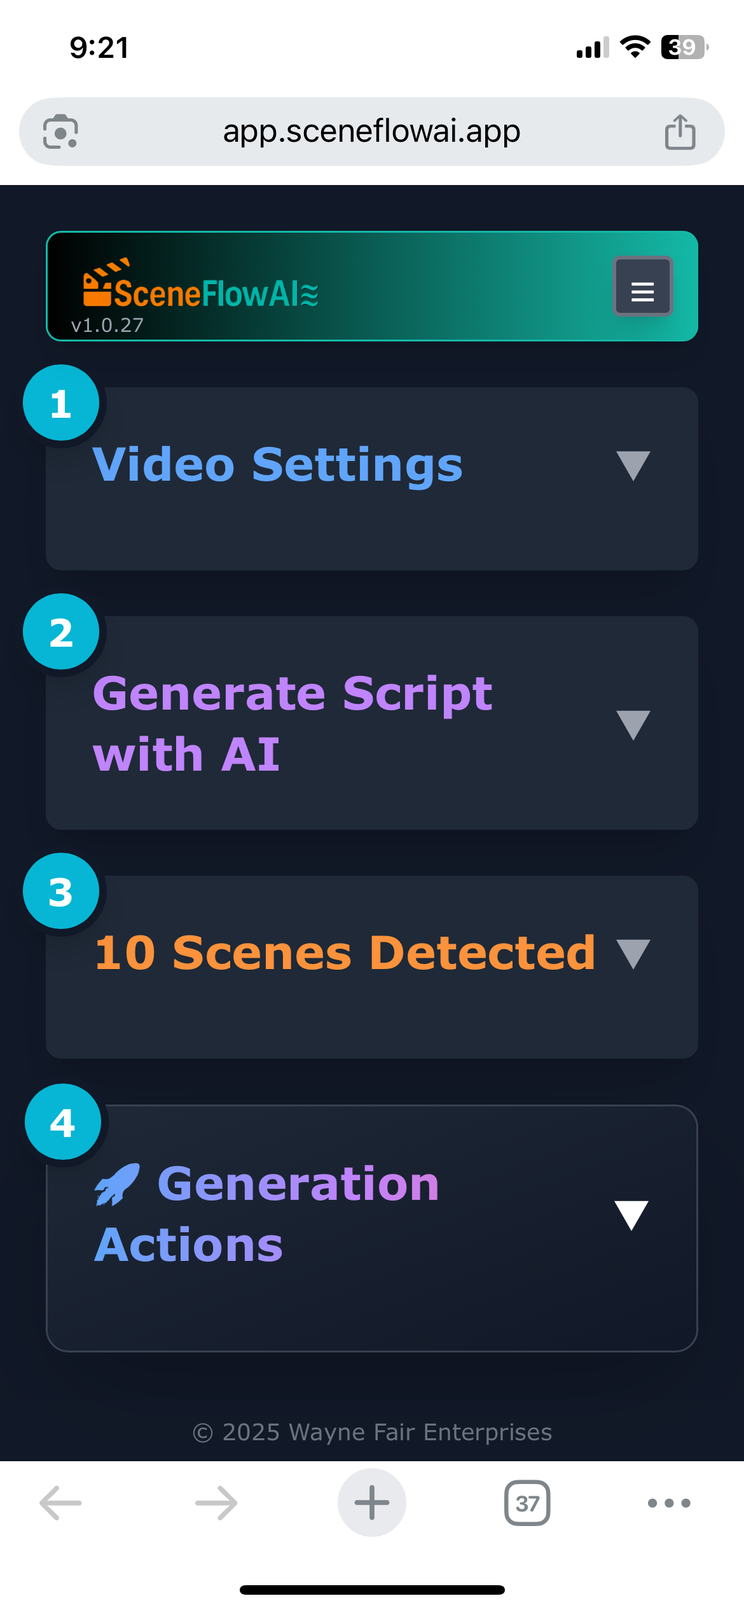
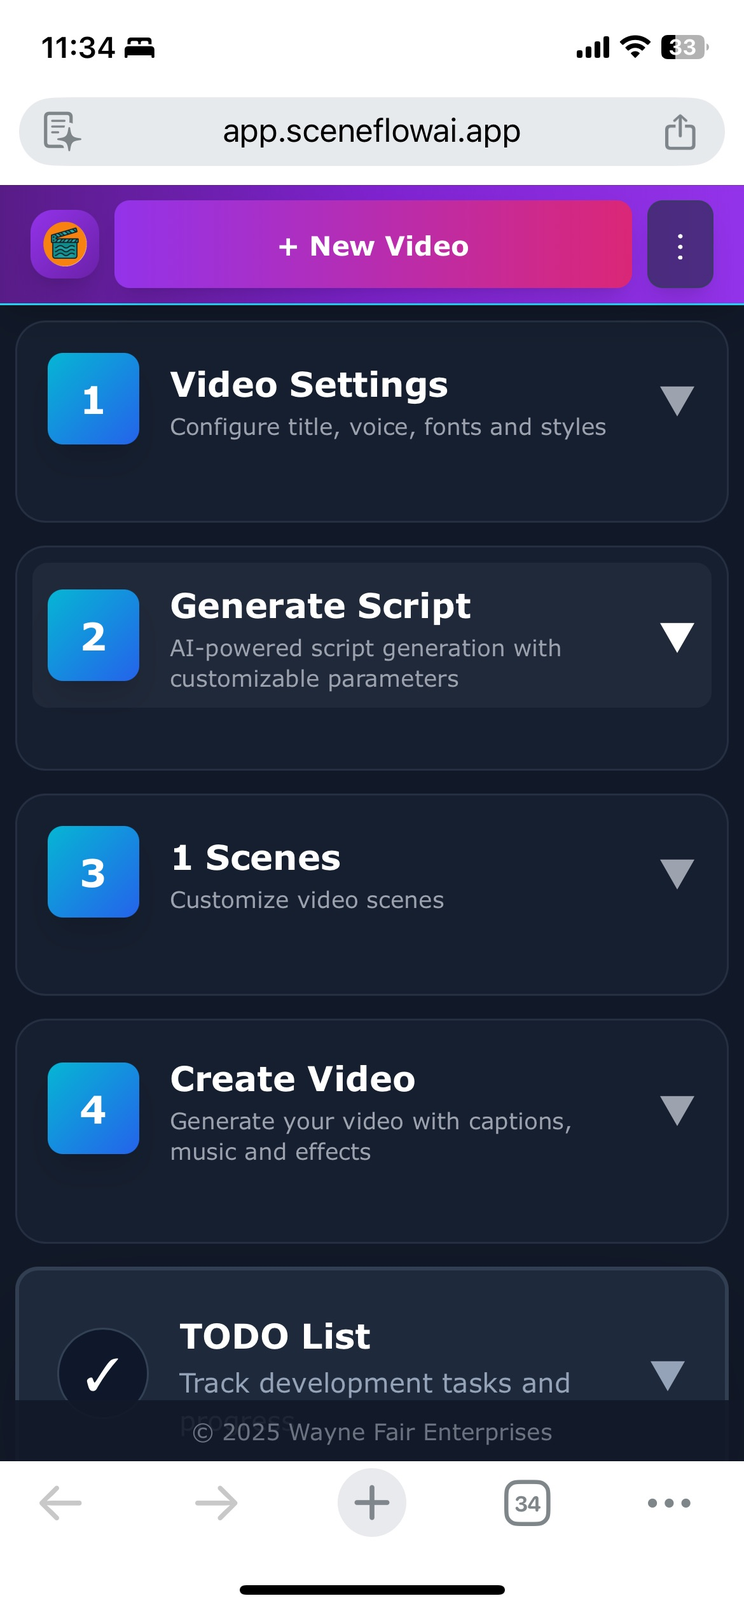
Update landing page with creation paths and new branding
- Replace pricing section with 4 creation path cards (AutoMagic, AI Script, Story Teller, SlideWizard)
- Update logo to use hosted image from app.sceneflowai.app
- Add SceneFlowAI text branding next to logo in header and footer
- Update mobile app screenshot

🤖 Generated with [Claude Code](https://claude.com/claude-code)

diff --git a/index.html b/index.html
@@ -49,8 +49,9 @@
     <nav class="fixed w-full bg-slate-900/80 backdrop-blur-md z-50 border-b border-purple-500/20">
         <div class="max-w-7xl mx-auto px-4 sm:px-6 lg:px-8">
             <div class="flex justify-between items-center h-16">
-                <a href="index.html" class="flex items-center">
-                    <img src="logo.png" alt="SceneFlow" class="h-8 md:h-9">
+                <a href="index.html" class="flex items-center gap-2">
+                    <img src="https://app.sceneflowai.app/extracted_logo_no_background.png" alt="SceneFlow" class="h-8 md:h-9">
+                    <span class="text-xl font-bold"><span class="text-amber-500">Scene</span><span class="text-scene-cyan">FlowAI</span></span>
                 </a>
                 <div class="hidden md:flex space-x-8">
                     <a href="#features" class="hover:text-scene-cyan transition">Features</a>
@@ -302,203 +303,203 @@
         </div>
     </section>
 
-    <!-- Pricing Section -->
+    <!-- Creation Modes Section -->
     <section id="pricing" class="py-20 px-4 bg-slate-900/50">
         <div class="max-w-7xl mx-auto">
             <div class="text-center mb-16">
-                <h2 class="text-4xl md:text-5xl font-bold mb-4">Choose Your Plan</h2>
-                <p class="text-xl text-gray-400">Start free, scale as you grow</p>
+                <h2 class="text-4xl md:text-5xl font-bold mb-4">Choose Your Creation Path</h2>
+                <p class="text-xl text-gray-400">Select how you'd like to create your video</p>
             </div>
 
-            <div class="grid md:grid-cols-3 gap-8 max-w-6xl mx-auto">
-                <!-- Starter Plan -->
-                <div class="bg-gradient-to-br from-slate-800 to-slate-900 p-8 rounded-2xl border border-purple-500/20 hover:border-scene-cyan/50 transition transform hover:scale-105">
-                    <div class="mb-8">
-                        <h3 class="text-2xl font-bold mb-2">Starter</h3>
-                        <p class="text-gray-400 mb-6">Perfect for trying out SceneFlow</p>
-                        <div class="flex items-baseline">
-                            <span class="text-5xl font-bold">$0</span>
-                            <span class="text-gray-400 ml-2">/month</span>
-                        </div>
-                    </div>
-                    <ul class="space-y-4 mb-8">
-                        <li class="flex items-start">
-                            <svg class="w-6 h-6 text-green-500 mr-3 flex-shrink-0" fill="none" stroke="currentColor" viewBox="0 0 24 24">
-                                <path stroke-linecap="round" stroke-linejoin="round" stroke-width="2" d="M5 13l4 4L19 7"></path>
-                            </svg>
-                            <span class="text-gray-300">5 videos per month</span>
-                        </li>
-                        <li class="flex items-start">
-                            <svg class="w-6 h-6 text-green-500 mr-3 flex-shrink-0" fill="none" stroke="currentColor" viewBox="0 0 24 24">
-                                <path stroke-linecap="round" stroke-linejoin="round" stroke-width="2" d="M5 13l4 4L19 7"></path>
-                            </svg>
-                            <span class="text-gray-300">Up to 3 minutes per video</span>
-                        </li>
-                        <li class="flex items-start">
-                            <svg class="w-6 h-6 text-green-500 mr-3 flex-shrink-0" fill="none" stroke="currentColor" viewBox="0 0 24 24">
-                                <path stroke-linecap="round" stroke-linejoin="round" stroke-width="2" d="M5 13l4 4L19 7"></path>
-                            </svg>
-                            <span class="text-gray-300">6 AI voices</span>
-                        </li>
-                        <li class="flex items-start">
-                            <svg class="w-6 h-6 text-green-500 mr-3 flex-shrink-0" fill="none" stroke="currentColor" viewBox="0 0 24 24">
-                                <path stroke-linecap="round" stroke-linejoin="round" stroke-width="2" d="M5 13l4 4L19 7"></path>
-                            </svg>
-                            <span class="text-gray-300">Basic captions</span>
-                        </li>
-                        <li class="flex items-start">
-                            <svg class="w-6 h-6 text-green-500 mr-3 flex-shrink-0" fill="none" stroke="currentColor" viewBox="0 0 24 24">
-                                <path stroke-linecap="round" stroke-linejoin="round" stroke-width="2" d="M5 13l4 4L19 7"></path>
-                            </svg>
-                            <span class="text-gray-300">720p export</span>
-                        </li>
-                    </ul>
-                    <a href="https://app.sceneflowai.app/" class="w-full border-2 border-purple-500/50 py-3 rounded-xl font-bold hover:bg-purple-500/10 transition inline-block text-center">
-                        Get Started Free
-                    </a>
-                </div>
+            <div class="grid md:grid-cols-2 lg:grid-cols-4 gap-6 max-w-7xl mx-auto">
+                <!-- AutoMagic Mode -->
+                <div class="bg-gradient-to-br from-amber-500/30 to-orange-600/30 p-[2px] rounded-2xl hover:scale-105 transition-transform duration-300">
+                    <div class="bg-slate-900 p-6 rounded-2xl h-full flex flex-col">
+                        <div class="text-4xl mb-3">✨</div>
+                        <h3 class="text-xl font-bold mb-1 text-amber-400">AutoMagic</h3>
+                        <p class="text-gray-400 mb-4 text-sm italic">"AI creates everything for you"</p>
 
-                <!-- Pro Plan (Featured) -->
-                <div class="bg-gradient-to-br from-scene-cyan via-scene-purple to-scene-pink p-[2px] rounded-2xl transform scale-105 relative overflow-hidden">
-                    <!-- Coming Soon Ribbon -->
-                    <div class="absolute top-8 -right-12 bg-red-600 text-white font-bold py-2 px-16 transform rotate-45 shadow-lg z-10" style="width: 200px; text-align: center;">
-                        COMING SOON!
-                    </div>
-                    <div class="bg-slate-900 p-8 rounded-2xl h-full">
-                        <div class="inline-block px-3 py-1 bg-gradient-to-r from-scene-cyan to-scene-purple rounded-full text-xs font-bold mb-4">
-                            MOST POPULAR
-                        </div>
-                        <div class="mb-8">
-                            <h3 class="text-2xl font-bold mb-2">Pro</h3>
-                            <p class="text-gray-400 mb-6">For serious content creators</p>
-                            <div class="flex items-baseline">
-                                <span class="text-5xl font-bold">$29</span>
-                                <span class="text-gray-400 ml-2">/month</span>
-                            </div>
-                        </div>
-                        <ul class="space-y-4 mb-8">
+                        <ul class="space-y-2 mb-6 flex-grow text-sm">
                             <li class="flex items-start">
-                                <svg class="w-6 h-6 text-green-500 mr-3 flex-shrink-0" fill="none" stroke="currentColor" viewBox="0 0 24 24">
+                                <svg class="w-4 h-4 text-amber-400 mr-2 flex-shrink-0 mt-0.5" fill="none" stroke="currentColor" viewBox="0 0 24 24">
                                     <path stroke-linecap="round" stroke-linejoin="round" stroke-width="2" d="M5 13l4 4L19 7"></path>
                                 </svg>
-                                <span class="text-gray-300"><strong>50 videos per month</strong></span>
+                                <span class="text-gray-300">Enter a topic, AI writes the script</span>
                             </li>
                             <li class="flex items-start">
-                                <svg class="w-6 h-6 text-green-500 mr-3 flex-shrink-0" fill="none" stroke="currentColor" viewBox="0 0 24 24">
+                                <svg class="w-4 h-4 text-amber-400 mr-2 flex-shrink-0 mt-0.5" fill="none" stroke="currentColor" viewBox="0 0 24 24">
                                     <path stroke-linecap="round" stroke-linejoin="round" stroke-width="2" d="M5 13l4 4L19 7"></path>
                                 </svg>
-                                <span class="text-gray-300"><strong>Up to 10 minutes per video</strong></span>
+                                <span class="text-gray-300">AI generates photorealistic images</span>
                             </li>
                             <li class="flex items-start">
-                                <svg class="w-6 h-6 text-green-500 mr-3 flex-shrink-0" fill="none" stroke="currentColor" viewBox="0 0 24 24">
+                                <svg class="w-4 h-4 text-amber-400 mr-2 flex-shrink-0 mt-0.5" fill="none" stroke="currentColor" viewBox="0 0 24 24">
                                     <path stroke-linecap="round" stroke-linejoin="round" stroke-width="2" d="M5 13l4 4L19 7"></path>
                                 </svg>
-                                <span class="text-gray-300">All AI voices</span>
+                                <span class="text-gray-300">Professional AI voiceover (multiple voices)</span>
                             </li>
                             <li class="flex items-start">
-                                <svg class="w-6 h-6 text-green-500 mr-3 flex-shrink-0" fill="none" stroke="currentColor" viewBox="0 0 24 24">
+                                <svg class="w-4 h-4 text-amber-400 mr-2 flex-shrink-0 mt-0.5" fill="none" stroke="currentColor" viewBox="0 0 24 24">
                                     <path stroke-linecap="round" stroke-linejoin="round" stroke-width="2" d="M5 13l4 4L19 7"></path>
                                 </svg>
-                                <span class="text-gray-300">Advanced captions & styles</span>
+                                <span class="text-gray-300">Both 16:9 and 9:16 formats</span>
                             </li>
                             <li class="flex items-start">
-                                <svg class="w-6 h-6 text-green-500 mr-3 flex-shrink-0" fill="none" stroke="currentColor" viewBox="0 0 24 24">
+                                <svg class="w-4 h-4 text-amber-400 mr-2 flex-shrink-0 mt-0.5" fill="none" stroke="currentColor" viewBox="0 0 24 24">
                                     <path stroke-linecap="round" stroke-linejoin="round" stroke-width="2" d="M5 13l4 4L19 7"></path>
                                 </svg>
-                                <span class="text-gray-300"><strong>1080p HD export</strong></span>
-                            </li>
-                            <li class="flex items-start">
-                                <svg class="w-6 h-6 text-green-500 mr-3 flex-shrink-0" fill="none" stroke="currentColor" viewBox="0 0 24 24">
-                                    <path stroke-linecap="round" stroke-linejoin="round" stroke-width="2" d="M5 13l4 4L19 7"></path>
-                                </svg>
-                                <span class="text-gray-300">AI image generation</span>
-                            </li>
-                            <li class="flex items-start">
-                                <svg class="w-6 h-6 text-green-500 mr-3 flex-shrink-0" fill="none" stroke="currentColor" viewBox="0 0 24 24">
-                                    <path stroke-linecap="round" stroke-linejoin="round" stroke-width="2" d="M5 13l4 4L19 7"></path>
-                                </svg>
-                                <span class="text-gray-300">YouTube SEO tools</span>
-                            </li>
-                            <li class="flex items-start">
-                                <svg class="w-6 h-6 text-green-500 mr-3 flex-shrink-0" fill="none" stroke="currentColor" viewBox="0 0 24 24">
-                                    <path stroke-linecap="round" stroke-linejoin="round" stroke-width="2" d="M5 13l4 4L19 7"></path>
-                                </svg>
-                                <span class="text-gray-300">Priority support</span>
+                                <span class="text-gray-300">Perfect for quick content creation</span>
                             </li>
                         </ul>
-                        <button disabled class="w-full bg-gradient-to-r from-scene-cyan to-scene-purple py-3 rounded-xl font-bold opacity-50 cursor-not-allowed">
-                            Start Pro Trial
-                        </button>
+
+                        <a href="https://app.sceneflowai.app/" class="w-full bg-gradient-to-r from-amber-500 to-orange-500 py-2.5 rounded-xl font-bold hover:from-amber-400 hover:to-orange-400 transition text-center text-slate-900 text-sm">
+                            Start with AutoMagic
+                        </a>
                     </div>
                 </div>
 
-                <!-- Enterprise Plan -->
-                <div class="bg-gradient-to-br from-slate-800 to-slate-900 p-8 rounded-2xl border border-purple-500/20 hover:border-scene-cyan/50 transition transform hover:scale-105 relative overflow-hidden">
-                    <!-- Coming Soon Ribbon -->
-                    <div class="absolute top-8 -right-12 bg-red-600 text-white font-bold py-2 px-16 transform rotate-45 shadow-lg z-10" style="width: 200px; text-align: center;">
-                        COMING SOON!
+                <!-- AI Script -->
+                <div class="bg-gradient-to-br from-purple-500/30 to-pink-600/30 p-[2px] rounded-2xl hover:scale-105 transition-transform duration-300">
+                    <div class="bg-slate-900 p-6 rounded-2xl h-full flex flex-col">
+                        <div class="text-4xl mb-3">🤖</div>
+                        <h3 class="text-xl font-bold mb-1 text-purple-400">AI Script</h3>
+                        <p class="text-gray-400 mb-4 text-sm italic">"Full control over your narrative"</p>
+
+                        <ul class="space-y-2 mb-6 flex-grow text-sm">
+                            <li class="flex items-start">
+                                <svg class="w-4 h-4 text-purple-400 mr-2 flex-shrink-0 mt-0.5" fill="none" stroke="currentColor" viewBox="0 0 24 24">
+                                    <path stroke-linecap="round" stroke-linejoin="round" stroke-width="2" d="M5 13l4 4L19 7"></path>
+                                </svg>
+                                <span class="text-gray-300">Write or paste your own script</span>
+                            </li>
+                            <li class="flex items-start">
+                                <svg class="w-4 h-4 text-purple-400 mr-2 flex-shrink-0 mt-0.5" fill="none" stroke="currentColor" viewBox="0 0 24 24">
+                                    <path stroke-linecap="round" stroke-linejoin="round" stroke-width="2" d="M5 13l4 4L19 7"></path>
+                                </svg>
+                                <span class="text-gray-300">AI generates visuals for each scene</span>
+                            </li>
+                            <li class="flex items-start">
+                                <svg class="w-4 h-4 text-purple-400 mr-2 flex-shrink-0 mt-0.5" fill="none" stroke="currentColor" viewBox="0 0 24 24">
+                                    <path stroke-linecap="round" stroke-linejoin="round" stroke-width="2" d="M5 13l4 4L19 7"></path>
+                                </svg>
+                                <span class="text-gray-300">Automatic scene breakdown</span>
+                            </li>
+                            <li class="flex items-start">
+                                <svg class="w-4 h-4 text-purple-400 mr-2 flex-shrink-0 mt-0.5" fill="none" stroke="currentColor" viewBox="0 0 24 24">
+                                    <path stroke-linecap="round" stroke-linejoin="round" stroke-width="2" d="M5 13l4 4L19 7"></path>
+                                </svg>
+                                <span class="text-gray-300">Choose from 6 professional AI voices</span>
+                            </li>
+                            <li class="flex items-start">
+                                <svg class="w-4 h-4 text-purple-400 mr-2 flex-shrink-0 mt-0.5" fill="none" stroke="currentColor" viewBox="0 0 24 24">
+                                    <path stroke-linecap="round" stroke-linejoin="round" stroke-width="2" d="M5 13l4 4L19 7"></path>
+                                </svg>
+                                <span class="text-gray-300">Both 16:9 and 9:16 formats</span>
+                            </li>
+                            <li class="flex items-start">
+                                <svg class="w-4 h-4 text-purple-400 mr-2 flex-shrink-0 mt-0.5" fill="none" stroke="currentColor" viewBox="0 0 24 24">
+                                    <path stroke-linecap="round" stroke-linejoin="round" stroke-width="2" d="M5 13l4 4L19 7"></path>
+                                </svg>
+                                <span class="text-gray-300">Perfect for pre-written content</span>
+                            </li>
+                        </ul>
+
+                        <a href="https://app.sceneflowai.app/" class="w-full bg-gradient-to-r from-purple-500 to-pink-500 py-2.5 rounded-xl font-bold hover:from-purple-400 hover:to-pink-400 transition text-center text-white text-sm">
+                            Continue with AI Script
+                        </a>
                     </div>
-                    <div class="mb-8">
-                        <h3 class="text-2xl font-bold mb-2">Enterprise</h3>
-                        <p class="text-gray-400 mb-6">For teams and agencies</p>
-                        <div class="flex items-baseline">
-                            <span class="text-5xl font-bold">$99</span>
-                            <span class="text-gray-400 ml-2">/month</span>
-                        </div>
+                </div>
+
+                <!-- Story Teller -->
+                <div class="bg-gradient-to-br from-orange-500/30 to-red-500/30 p-[2px] rounded-2xl hover:scale-105 transition-transform duration-300">
+                    <div class="bg-slate-900 p-6 rounded-2xl h-full flex flex-col">
+                        <div class="text-4xl mb-3">🎬</div>
+                        <h3 class="text-xl font-bold mb-1 text-orange-400">Story Teller</h3>
+                        <p class="text-gray-400 mb-4 text-sm italic">"Record your own narration"</p>
+
+                        <ul class="space-y-2 mb-6 flex-grow text-sm">
+                            <li class="flex items-start">
+                                <svg class="w-4 h-4 text-orange-400 mr-2 flex-shrink-0 mt-0.5" fill="none" stroke="currentColor" viewBox="0 0 24 24">
+                                    <path stroke-linecap="round" stroke-linejoin="round" stroke-width="2" d="M5 13l4 4L19 7"></path>
+                                </svg>
+                                <span class="text-gray-300">Scene-by-scene voice recording</span>
+                            </li>
+                            <li class="flex items-start">
+                                <svg class="w-4 h-4 text-orange-400 mr-2 flex-shrink-0 mt-0.5" fill="none" stroke="currentColor" viewBox="0 0 24 24">
+                                    <path stroke-linecap="round" stroke-linejoin="round" stroke-width="2" d="M5 13l4 4L19 7"></path>
+                                </svg>
+                                <span class="text-gray-300">Upload your own images/videos</span>
+                            </li>
+                            <li class="flex items-start">
+                                <svg class="w-4 h-4 text-orange-400 mr-2 flex-shrink-0 mt-0.5" fill="none" stroke="currentColor" viewBox="0 0 24 24">
+                                    <path stroke-linecap="round" stroke-linejoin="round" stroke-width="2" d="M5 13l4 4L19 7"></path>
+                                </svg>
+                                <span class="text-gray-300">AI images or custom media</span>
+                            </li>
+                            <li class="flex items-start">
+                                <svg class="w-4 h-4 text-orange-400 mr-2 flex-shrink-0 mt-0.5" fill="none" stroke="currentColor" viewBox="0 0 24 24">
+                                    <path stroke-linecap="round" stroke-linejoin="round" stroke-width="2" d="M5 13l4 4L19 7"></path>
+                                </svg>
+                                <span class="text-gray-300">Full creative control</span>
+                            </li>
+                            <li class="flex items-start">
+                                <svg class="w-4 h-4 text-orange-400 mr-2 flex-shrink-0 mt-0.5" fill="none" stroke="currentColor" viewBox="0 0 24 24">
+                                    <path stroke-linecap="round" stroke-linejoin="round" stroke-width="2" d="M5 13l4 4L19 7"></path>
+                                </svg>
+                                <span class="text-gray-300">Personal storytelling made easy</span>
+                            </li>
+                        </ul>
+
+                        <a href="https://app.sceneflowai.app/" class="w-full bg-gradient-to-r from-orange-500 to-red-500 py-2.5 rounded-xl font-bold hover:from-orange-400 hover:to-red-400 transition text-center text-white text-sm">
+                            Continue with Story Teller
+                        </a>
                     </div>
-                    <ul class="space-y-4 mb-8">
-                        <li class="flex items-start">
-                            <svg class="w-6 h-6 text-green-500 mr-3 flex-shrink-0" fill="none" stroke="currentColor" viewBox="0 0 24 24">
-                                <path stroke-linecap="round" stroke-linejoin="round" stroke-width="2" d="M5 13l4 4L19 7"></path>
-                            </svg>
-                            <span class="text-gray-300"><strong>Unlimited videos</strong></span>
-                        </li>
-                        <li class="flex items-start">
-                            <svg class="w-6 h-6 text-green-500 mr-3 flex-shrink-0" fill="none" stroke="currentColor" viewBox="0 0 24 24">
-                                <path stroke-linecap="round" stroke-linejoin="round" stroke-width="2" d="M5 13l4 4L19 7"></path>
-                            </svg>
-                            <span class="text-gray-300"><strong>Unlimited duration</strong></span>
-                        </li>
-                        <li class="flex items-start">
-                            <svg class="w-6 h-6 text-green-500 mr-3 flex-shrink-0" fill="none" stroke="currentColor" viewBox="0 0 24 24">
-                                <path stroke-linecap="round" stroke-linejoin="round" stroke-width="2" d="M5 13l4 4L19 7"></path>
-                            </svg>
-                            <span class="text-gray-300">Custom AI voice training</span>
-                        </li>
-                        <li class="flex items-start">
-                            <svg class="w-6 h-6 text-green-500 mr-3 flex-shrink-0" fill="none" stroke="currentColor" viewBox="0 0 24 24">
-                                <path stroke-linecap="round" stroke-linejoin="round" stroke-width="2" d="M5 13l4 4L19 7"></path>
-                            </svg>
-                            <span class="text-gray-300">Custom branding</span>
-                        </li>
-                        <li class="flex items-start">
-                            <svg class="w-6 h-6 text-green-500 mr-3 flex-shrink-0" fill="none" stroke="currentColor" viewBox="0 0 24 24">
-                                <path stroke-linecap="round" stroke-linejoin="round" stroke-width="2" d="M5 13l4 4L19 7"></path>
-                            </svg>
-                            <span class="text-gray-300"><strong>4K export</strong></span>
-                        </li>
-                        <li class="flex items-start">
-                            <svg class="w-6 h-6 text-green-500 mr-3 flex-shrink-0" fill="none" stroke="currentColor" viewBox="0 0 24 24">
-                                <path stroke-linecap="round" stroke-linejoin="round" stroke-width="2" d="M5 13l4 4L19 7"></path>
-                            </svg>
-                            <span class="text-gray-300">API access</span>
-                        </li>
-                        <li class="flex items-start">
-                            <svg class="w-6 h-6 text-green-500 mr-3 flex-shrink-0" fill="none" stroke="currentColor" viewBox="0 0 24 24">
-                                <path stroke-linecap="round" stroke-linejoin="round" stroke-width="2" d="M5 13l4 4L19 7"></path>
-                            </svg>
-                            <span class="text-gray-300">Team collaboration</span>
-                        </li>
-                        <li class="flex items-start">
-                            <svg class="w-6 h-6 text-green-500 mr-3 flex-shrink-0" fill="none" stroke="currentColor" viewBox="0 0 24 24">
-                                <path stroke-linecap="round" stroke-linejoin="round" stroke-width="2" d="M5 13l4 4L19 7"></path>
-                            </svg>
-                            <span class="text-gray-300">Dedicated support</span>
-                        </li>
-                    </ul>
-                    <button disabled class="w-full border-2 border-purple-500/50 py-3 rounded-xl font-bold opacity-50 cursor-not-allowed">
-                        Contact Sales
-                    </button>
+                </div>
+
+                <!-- SlideWizard -->
+                <div class="bg-gradient-to-br from-scene-cyan/30 to-blue-600/30 p-[2px] rounded-2xl hover:scale-105 transition-transform duration-300">
+                    <div class="bg-slate-900 p-6 rounded-2xl h-full flex flex-col">
+                        <div class="text-4xl mb-3">🖼</div>
+                        <h3 class="text-xl font-bold mb-1 text-scene-cyan">SlideWizard</h3>
+                        <p class="text-gray-400 mb-4 text-sm italic">"Transform videos into documentaries"</p>
+
+                        <ul class="space-y-2 mb-6 flex-grow text-sm">
+                            <li class="flex items-start">
+                                <svg class="w-4 h-4 text-scene-cyan mr-2 flex-shrink-0 mt-0.5" fill="none" stroke="currentColor" viewBox="0 0 24 24">
+                                    <path stroke-linecap="round" stroke-linejoin="round" stroke-width="2" d="M5 13l4 4L19 7"></path>
+                                </svg>
+                                <span class="text-gray-300">Upload any video</span>
+                            </li>
+                            <li class="flex items-start">
+                                <svg class="w-4 h-4 text-scene-cyan mr-2 flex-shrink-0 mt-0.5" fill="none" stroke="currentColor" viewBox="0 0 24 24">
+                                    <path stroke-linecap="round" stroke-linejoin="round" stroke-width="2" d="M5 13l4 4L19 7"></path>
+                                </svg>
+                                <span class="text-gray-300">AI-powered auto-segmentation</span>
+                            </li>
+                            <li class="flex items-start">
+                                <svg class="w-4 h-4 text-scene-cyan mr-2 flex-shrink-0 mt-0.5" fill="none" stroke="currentColor" viewBox="0 0 24 24">
+                                    <path stroke-linecap="round" stroke-linejoin="round" stroke-width="2" d="M5 13l4 4L19 7"></path>
+                                </svg>
+                                <span class="text-gray-300">Custom text slides with professional styling</span>
+                            </li>
+                            <li class="flex items-start">
+                                <svg class="w-4 h-4 text-scene-cyan mr-2 flex-shrink-0 mt-0.5" fill="none" stroke="currentColor" viewBox="0 0 24 24">
+                                    <path stroke-linecap="round" stroke-linejoin="round" stroke-width="2" d="M5 13l4 4L19 7"></path>
+                                </svg>
+                                <span class="text-gray-300">Multiple background themes</span>
+                            </li>
+                            <li class="flex items-start">
+                                <svg class="w-4 h-4 text-scene-cyan mr-2 flex-shrink-0 mt-0.5" fill="none" stroke="currentColor" viewBox="0 0 24 24">
+                                    <path stroke-linecap="round" stroke-linejoin="round" stroke-width="2" d="M5 13l4 4L19 7"></path>
+                                </svg>
+                                <span class="text-gray-300">Keep original audio or use AI voice</span>
+                            </li>
+                        </ul>
+
+                        <a href="https://app.sceneflowai.app/" class="w-full bg-gradient-to-r from-scene-cyan to-blue-500 py-2.5 rounded-xl font-bold hover:from-cyan-400 hover:to-blue-400 transition text-center text-slate-900 text-sm">
+                            Launch SlideWizard
+                        </a>
+                    </div>
                 </div>
             </div>
         </div>
@@ -520,8 +521,9 @@
         <div class="max-w-7xl mx-auto">
             <div class="grid md:grid-cols-4 gap-8 mb-8">
                 <div>
-                    <div class="mb-4">
-                        <img src="logo.png" alt="SceneFlow" class="h-10">
+                    <div class="mb-4 flex items-center gap-2">
+                        <img src="https://app.sceneflowai.app/extracted_logo_no_background.png" alt="SceneFlow" class="h-10">
+                        <span class="text-xl font-bold"><span class="text-amber-500">Scene</span><span class="text-scene-cyan">FlowAI</span></span>
                     </div>
                     <p class="text-gray-400 text-sm">video creation for the rest of us</p>
                 </div>
